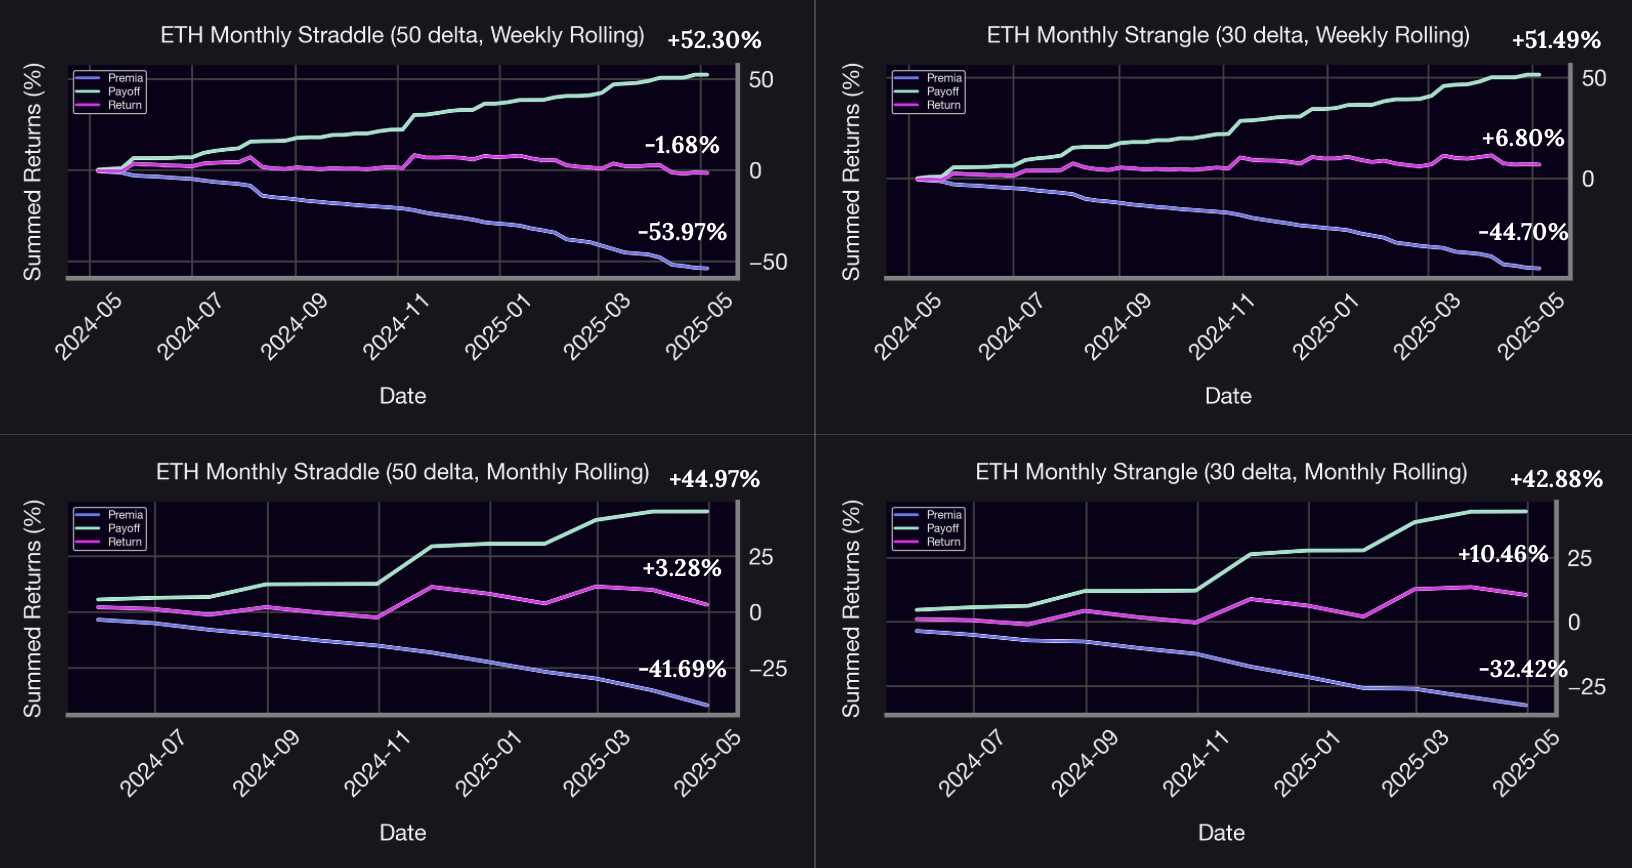
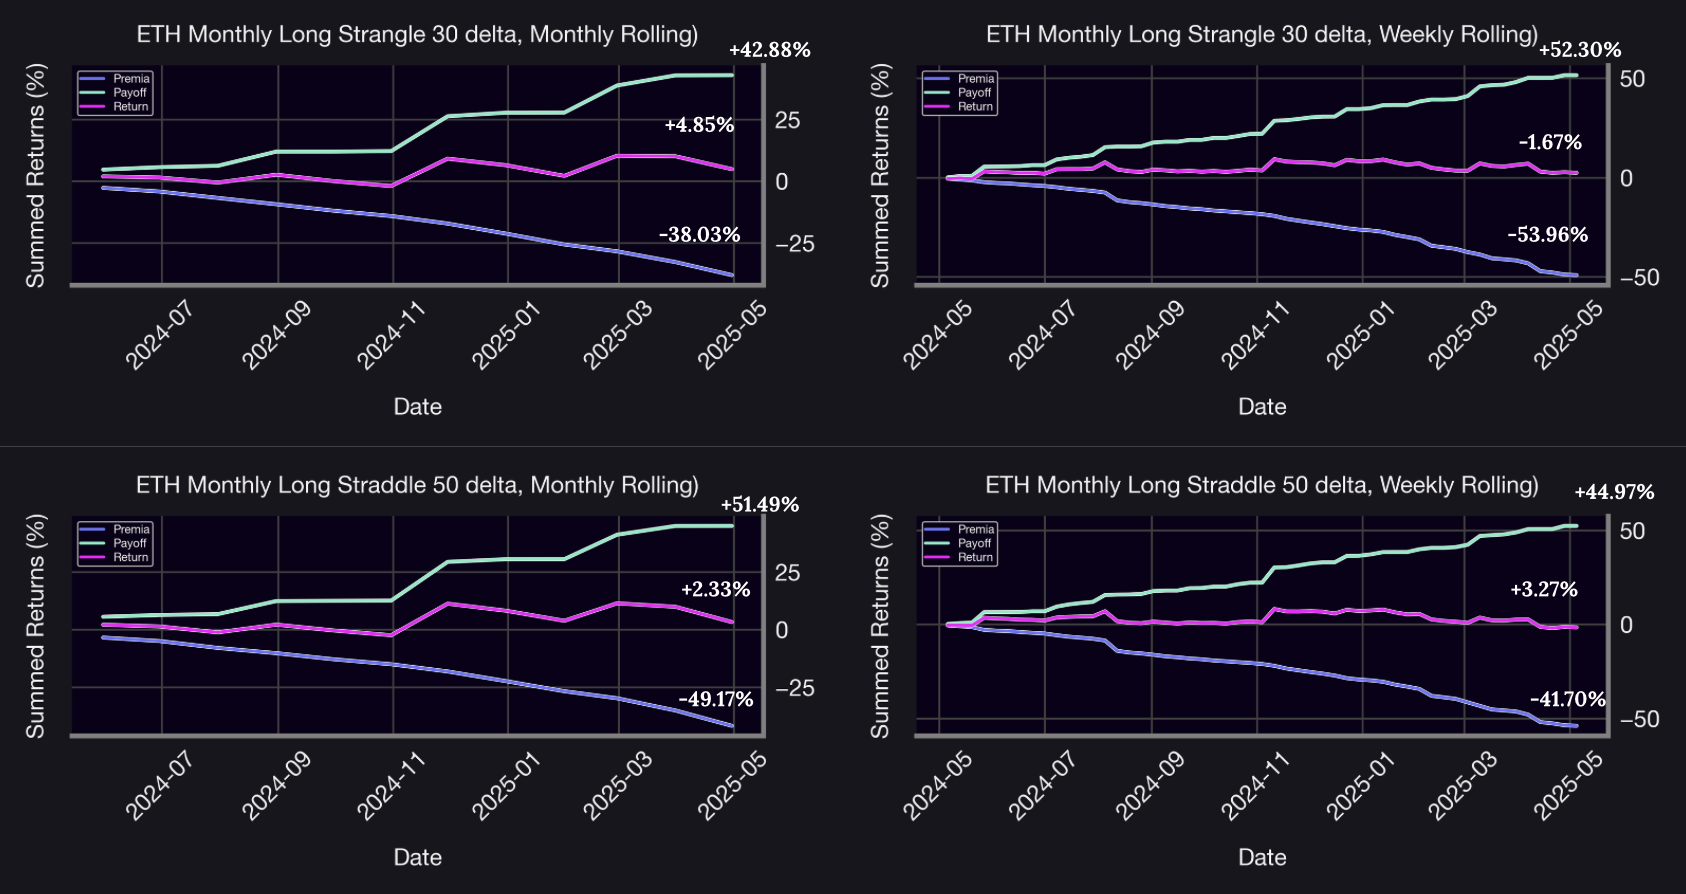
Bite quick update based on the new results

diff --git a/research/2025-06-12-delta-neutral-strangle-vs-straddle/delta-neutral-strangle-vs-straddle.md b/research/2025-06-12-delta-neutral-strangle-vs-straddle/delta-neutral-strangle-vs-straddle.md
@@ -14,6 +14,8 @@ authors: A
 
 <iframe width="560" height="315" src="https://www.youtube.com/embed/OeK2TdAC8e4?si=Jcuy6rhrDtwYXzwd" title="YouTube video player" frameborder="0" allow="accelerometer; autoplay; clipboard-write; encrypted-media; gyroscope; picture-in-picture; web-share" referrerpolicy="strict-origin-when-cross-origin" allowfullscreen></iframe>
 
+> **Note:** The results of the premia have been updated in this bite due to a correction in the backtester code. We apologize for the minor inconvenience and appreciate your understanding.
+
 ## Introduction
 
 In volatile, range-bound markets, traditional directional strategies often underperform due to frequent price reversals and uncertain trend conviction. For DeFi-native option protocols like **Panoptic**, this presents a unique opportunity: to harvest volatility through streaming fees by deploying non-directional, high-theta strategies such as multi-leg strategies. By multi-leg, we generally mean that we are involving simultaneously buying and selling multiple options contracts with different strikes, expirations, or both. They're designed to profit from specific market conditions while managing risk and capital efficiency. Here in our case there’s no expiration date since the options in Panoptic are perpetual which makes things even more interesting, profit-wise. Multi-leg options strategies offer primary advantages that make them attractive to sophisticated traders especially from a risk management perspective, they provide limited maximum loss exposure with clearly defined profit zones and breakeven points while requiring less capital than single option positions.
@@ -79,9 +81,9 @@ This kind of price action is exactly what we want when testing straddles and str
 **Figure 4** Cumulative performance of ETH long straddle and strangle strategies across weekly and monthly rolling intervals. The charts break down total returns into fee income (premia), directional gains (payoff), and net results, illustrating how volatility regimes and rolling frequency influence the trade-off between premium decay and realized PnL.
 
 
-The comparative performance of long straddle and long strangle strategies on ETH/USDC, as illustrated in the figures, highlights how structure and cost sensitivity shape their outcomes under Panoptic’s perpetual option framework. All short strategies show strong premium collection - short straddles earning 45-52% and short strangles 43-51% demonstrating the power of selling volatility in crypto markets. Moreover, monthly rebalancing consistently outperforms weekly by twice as much for both long straddles and long strangles, showing that less frequent adjustments on long positions capture price swings more effectively.
+The comparative performance of long straddle and long strangle strategies on ETH/USDC, as illustrated in the figures, highlights how structure and cost sensitivity shape their outcomes under Panoptic’s perpetual option framework. All short strategies show strong premium collection - short straddles earning 38-49% and short strangles 41-52% demonstrating the power of selling volatility in crypto markets. Moreover, monthly rebalancing consistently outperforms weekly by twice as much for both long straddles and long strangles, showing that less frequent adjustments on long positions capture price swings more effectively.
 
-The long straddle, which places both the call and put at the at-the-money strike, responds more quickly to short-term price fluctuations. However, this sensitivity comes at a cost. Because both legs are active around the spot price, premium accrues continuously, even in low-volatility environments where neither leg generates meaningful payoff. This results in a performance profile where cumulative payoffs trend upward but are largely offset by the persistent drag of streaming fees. What's even more fascinating is that even though straddles have an immediate activation of the legs, strangle still outperformed the straddles at the end of the one year backtest: 3.28% for straddles against 10.46% for strangles. In fact, the long strangle—constructed with out-of-the-money legs—shows a more favorable risk/reward profile. Since each leg activates only when ETH moves beyond a wider threshold, premium decay is lower and more episodic. This design allows the strangle to perform well during breakout phases while remaining relatively insulated during quiet periods.
+The long straddle, which places both the call and put at the at-the-money strike, responds more quickly to short-term price fluctuations. However, this sensitivity comes at a cost. Because both legs are active around the spot price, premium accrues continuously, even in low-volatility environments where neither leg generates meaningful payoff. This results in a performance profile where cumulative payoffs trend upward but are largely offset by the persistent drag of streaming fees. What's even more fascinating is that even though straddles have an immediate activation of the legs, strangle still outperformed the straddles at the end of the one year backtest: 2.33% for straddles against 4.85% for strangles. In fact, the long strangle—constructed with out-of-the-money legs—shows a more favorable risk/reward profile. Since each leg activates only when ETH moves beyond a wider threshold, premium decay is lower and more episodic. This design allows the strangle to perform well during breakout phases while remaining relatively insulated during quiet periods.
 
 ![](5.png)
 **Figure 5** Performance breakdown of ETH long straddle (50 delta) and strangle (30 delta) strategies across weekly and monthly rolling intervals, highlighting differences in fee accumulation, directional payoff, and overall return dynamics under varying volatility conditions. 
@@ -92,7 +94,7 @@ Ultimately, straddle and strangles returns are higher with monthly rolling becau
 
 ## Conclusion
 
-At the end of the chaotic one-year backtest, the long strangle outperforms in breakout-driven markets due to its lower cost and wider profit range. Nevertheless, it lags during low-volatility periods when price stays between its strikes. The long straddle, while more sensitive to small price moves near the entry point, suffers from higher fee accumulation over time. However, the data shows straddles can make you between 10% and 15% monthly when there's a conviction of volatility. Furthermore, rolling frequency does matter at the end of the day: monthly rebalancing captures larger directional moves more effectively.
+At the end of the chaotic one-year backtest, the long strangle outperforms in breakout-driven markets due to its lower cost and wider profit range. Nevertheless, it lags during low-volatility periods when price stays between its strikes. The long straddle, while more sensitive to small price moves near the entry point, suffers from higher fee accumulation over time. However, the data shows straddles and strangles can make you between 10% and 14% monthly when there's a conviction of volatility. Furthermore, rolling frequency does matter at the end of the day: monthly rebalancing captures larger directional moves more effectively.
 
 On the other hand, a natural next step is to extend this analysis to short straddle and short strangle strategies, which invert the payoff profile and introduce asymmetric risk in exchange for steady premium accumulation. Studying these positions would allow us to quantify theta harvesting opportunities and stress-test capital efficiency under tail events.
 
